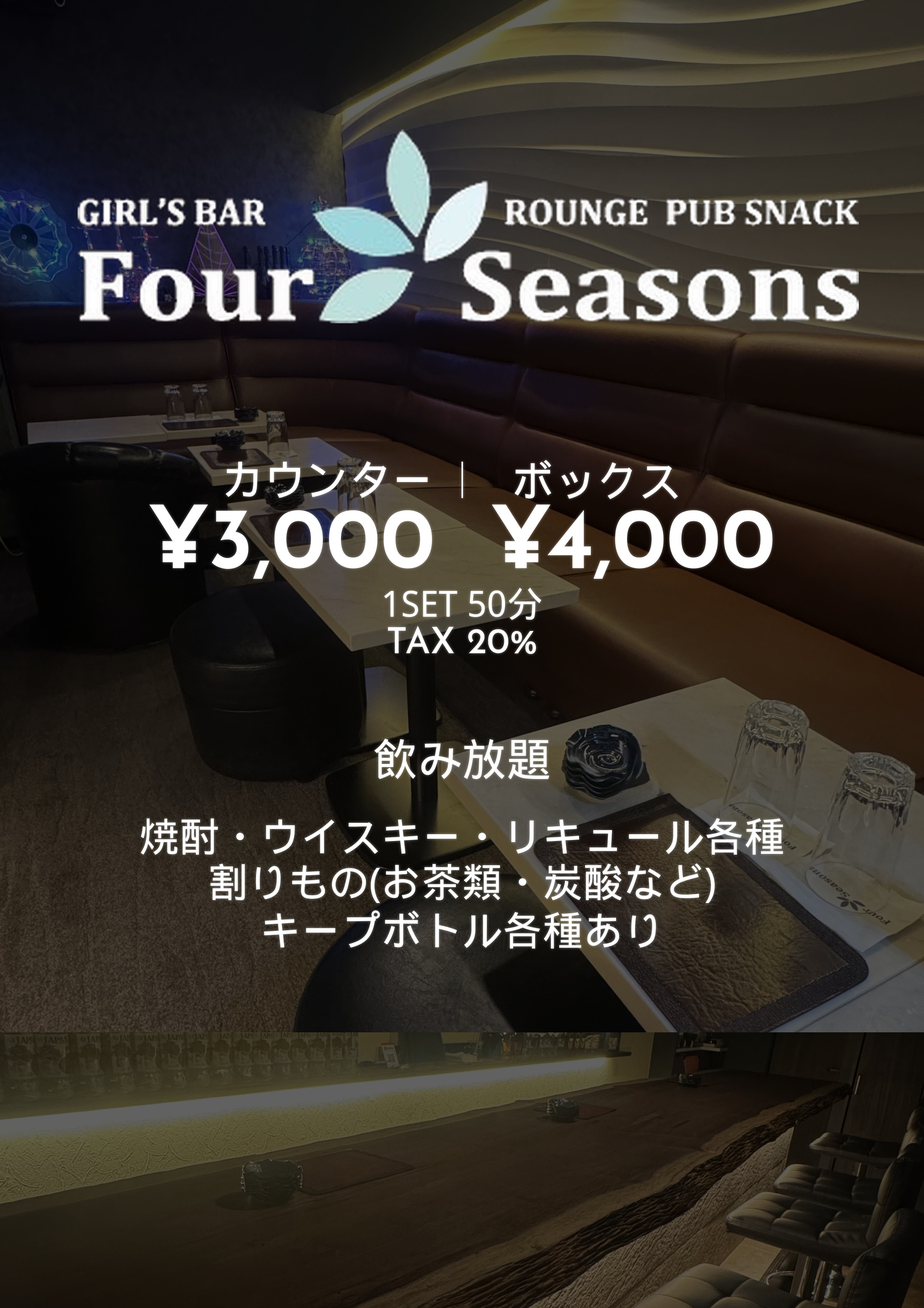
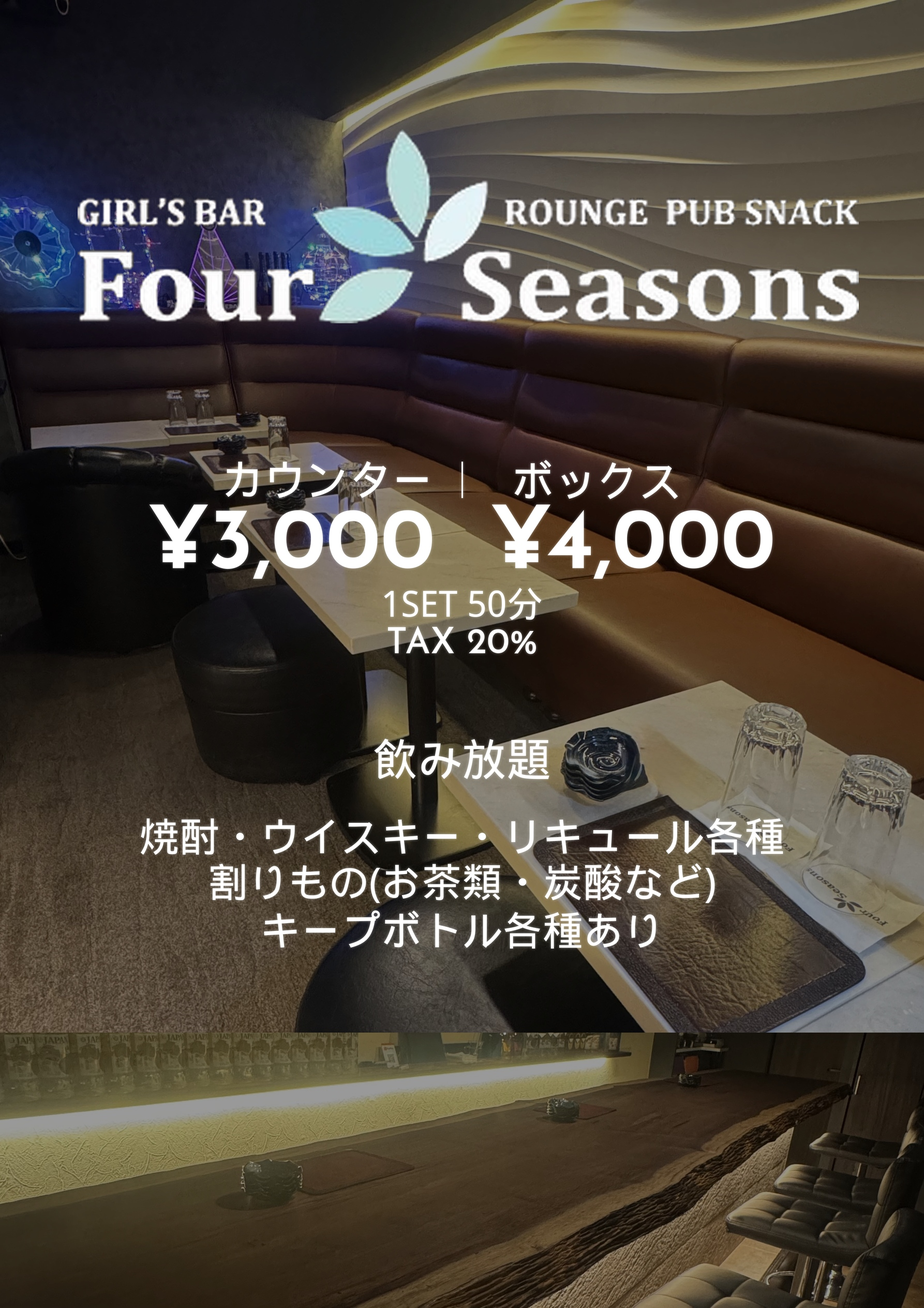
Fix crushed dark background in signage preview
Build lounge from the original photo at 2x then downscale, and ease
the black overlay so shadow wall texture is not crushed to mud.

diff --git a/Documents/フラット/FourSeasons_interior_A1/build_signage_preview.py b/Documents/フラット/FourSeasons_interior_A1/build_signage_preview.py
@@ -24,9 +24,13 @@ JP = "/usr/share/fonts/truetype/wqy/wqy-microhei.ttc"
 
 PREVIEW = (1786, 2529)
 CHAT = (900, 1274)
-BLACK_OPACITY = 0.62
+# 暗部テクスチャ保持のため 0.62→0.40（compose_a1 の 0.50 よりさらに軽め）
+BLACK_OPACITY = 0.40
+# ベースを2倍解像度で組んでから縮小し、暗部のJPEG潰れを抑える
+BASE_SUPERSAMPLE = 2
 
 BOX = {"x0": 0.0922, "y0": 0.1240, "x1": 0.9211, "y1": 0.2920}
+LOUNGE_SRC = ASSETS / "interior_lounge.jpg"
 MAIN_SCALE_BOOST = 1.02
 NUDGE_UP = 0.035
 TEXT_NUDGE_DOWN = 0.035
@@ -60,26 +64,45 @@ def cover_bottom(im: Image.Image, tw: int, th: int) -> Image.Image:
     return r.crop(((nw - tw) // 2, nh - th, (nw - tw) // 2 + tw, nh))
 
 
+def load_lounge() -> Image.Image:
+    """添付の店内写真を直接使う（A1 JPEG 再エンコード経由だと暗部が潰れる）。"""
+    lounge = Image.open(LOUNGE_SRC).convert("RGB")
+    try:
+        from PIL import ImageOps
+
+        lounge = ImageOps.exif_transpose(lounge)
+    except Exception:
+        pass
+    return lounge
+
+
 def build_base(size: tuple[int, int]) -> Image.Image:
+    """元店内写真＋カウンターを合成。必要なら高解像度で組んでから縮小。"""
     W, H = size
-    lounge = Image.open(OUT / "FourSeasons_interior_A1_150dpi.jpg").convert("RGB")
+    ss = BASE_SUPERSAMPLE
+    work = (W * ss, H * ss)
+    lounge = load_lounge()
     bar = Image.open(ASSETS / "interior_bar_counter.jpg").convert("RGB")
     mark = np.array(Image.open(ASSETS / "interior_lounge_redline_mark.jpg").convert("RGB"))
     r, g, b = mark[:, :, 0].astype(int), mark[:, :, 1].astype(int), mark[:, :, 2].astype(int)
     red = (r > 180) & (g < 100) & (b < 100) & ((r - g) > 80) & ((r - b) > 80)
     cut_frac = float(np.where(red.any(axis=1))[0].min()) / mark.shape[0]
-    bar_h = int(round(W * bar.size[1] / bar.size[0]))
-    bar_r = bar.resize((W, bar_h), Image.Resampling.LANCZOS)
-    top_h = H - bar_h
+    Ww, Hw = work
+    bar_h = int(round(Ww * bar.size[1] / bar.size[0]))
+    bar_r = bar.resize((Ww, bar_h), Image.Resampling.LANCZOS)
+    top_h = Hw - bar_h
     cut_y = int(round(lounge.size[1] * cut_frac))
-    top = cover_bottom(lounge.crop((0, 0, lounge.size[0], cut_y)), W, top_h)
-    base = Image.new("RGB", (W, H))
+    top = cover_bottom(lounge.crop((0, 0, lounge.size[0], cut_y)), Ww, top_h)
+    base = Image.new("RGB", work)
     base.paste(top, (0, 0))
     base.paste(bar_r, (0, top_h))
+    if ss != 1:
+        base = base.resize(size, Image.Resampling.LANCZOS)
     return base
 
 
 def apply_black(base: Image.Image, opacity: float) -> Image.Image:
+    """均一な黒オーバーレイ（RGBA合成）。"""
     rgba = base.convert("RGBA")
     ov = Image.new("RGBA", base.size, (0, 0, 0, int(round(255 * opacity))))
     return Image.alpha_composite(rgba, ov)
@@ -287,12 +310,12 @@ def main() -> None:
 
     preview_path = PREV / "A1_signage_preview.jpg"
     chat_path = PREV / "A1_signage_preview_chat.jpg"
-    final.save(preview_path, "JPEG", quality=95, optimize=True, dpi=(96, 96))
-    final.resize(CHAT, Image.Resampling.LANCZOS).save(chat_path, "JPEG", quality=92, optimize=True)
+    final.save(preview_path, "JPEG", quality=97, optimize=True, dpi=(96, 96))
+    final.resize(CHAT, Image.Resampling.LANCZOS).save(chat_path, "JPEG", quality=95, optimize=True)
     print(f"PREVIEW ONLY: {preview_path}")
     print(
-        f"large soft petals fully removed / main mark only "
-        f"/ body text = font layers / logo mark unchanged"
+        f"lounge from original @ {BASE_SUPERSAMPLE}x / black={BLACK_OPACITY} "
+        f"/ large soft petals removed / body text = font layers"
     )
 
 
